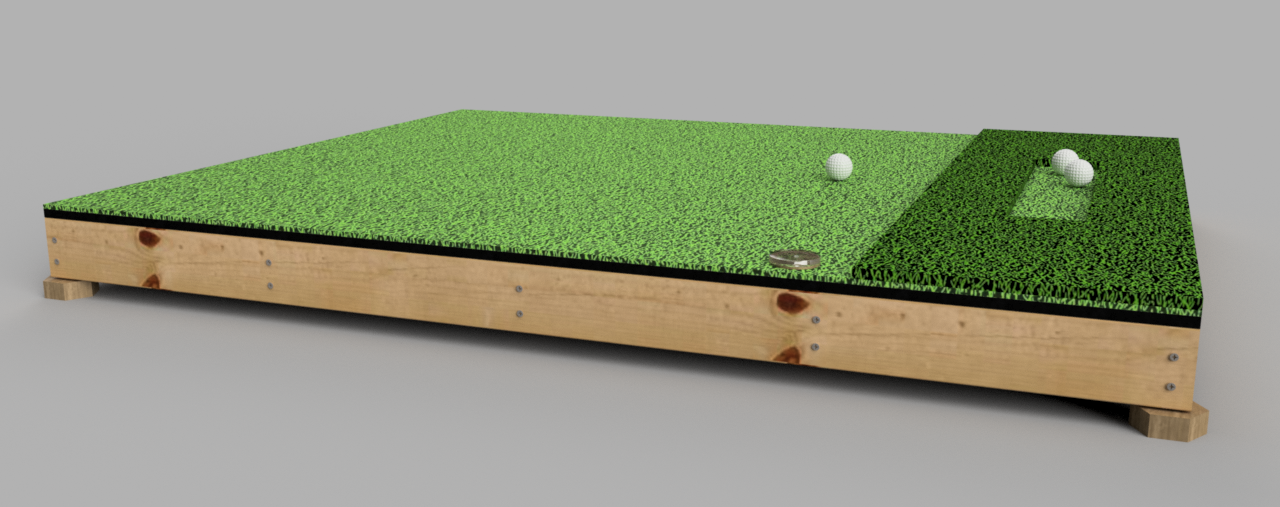
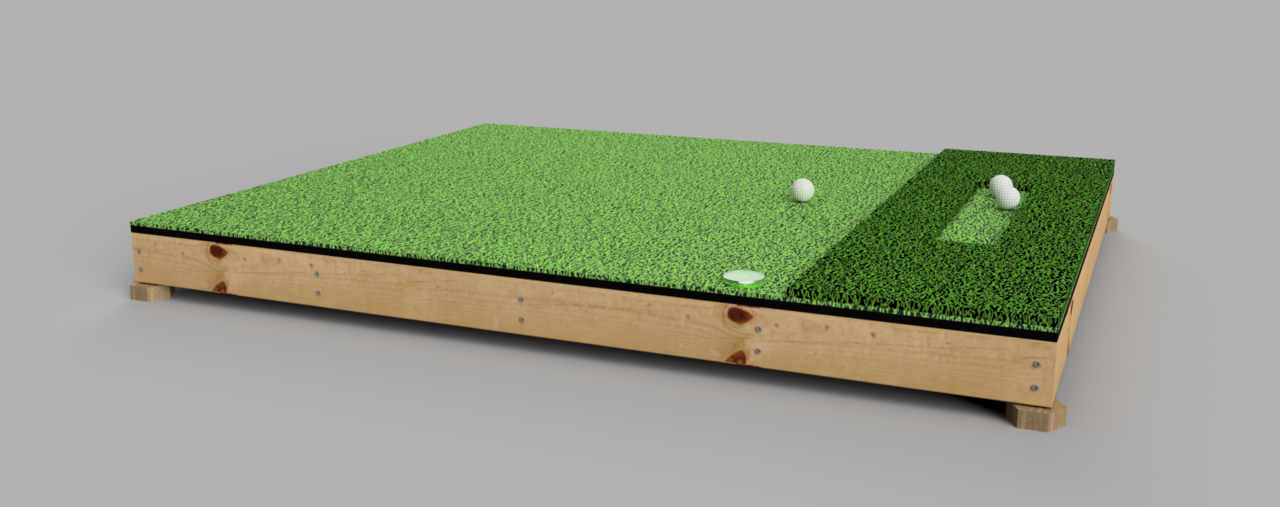
updating bom

Changed region(s): [[0.0312, 0.2071, 0.9688, 0.8876]]

diff --git a/golf-chipping-platform-bom.md b/golf-chipping-platform-bom.md
@@ -1,13 +1,15 @@
 # Golf Chipping Platform BOM
-![](images/golf-chipping-platform-render.png)
+![](images/golf-chipping-platform.png)
 |Image|Name|Number|Description|Quantity|Dimensions|
 |-|-|-|-|-|-|
 |![](images/.25-in-hex-nut.png)|.25 in Hex Nut v3:1|.25 in Hex Nut|Affiliate Link: https://amzn.to/4hm1ajV|4||
 |![](images/.25-in-tee-nut.png)|.25 in Tee Nut v3:1|.25 in Tee Nut|Affiliate Link: https://amzn.to/4bI0S5J|4||
 |![](images/.25x2-in-hex-bolt.png)|.25x2 in Hex Bolt v3:1|.25x2 in Hex Bolt|Affiliate Link: https://amzn.to/4hm1ajV|4||
 |![](images/bubble-level.png)|Bubble Level v4:1|Bubble Level|Affiliate Link: https://amzn.to/43Ag8j7|1||
-|![](images/footer-long.png)|Footer Long v3:1|Footer Long||2|60" x 3 1/2" x 1 1/2"|
-|![](images/footer-short.png)|Footer Short v3:1|Footer Short||5|45" x 3 1/2" x 1 1/2"|
+|![](images/deck.png)|Deck v2:1|Deck||1|60" x 48" x 3/4"|
+|![](images/footer-long.png)|Footer Long v3:1|Footer Long||2|59 1/1" x 3 1/2" x 1 1/2"|
+|![](images/footer-short.png)|Footer Short v3:1|Footer Short||5|44 1/1" x 3 1/2" x 1 1/2"|
 |![](images/golf-matt-assembly.png)|Golf Matt Assembly v3:1|Golf Matt Assembly|Affiliate Link: https://amzn.to/3Dr7J77|1||
+|![](images/no-8-x-1.25in.png)|No 8 x 1.25in v3:1|No 8 x 1.25in|Affiliate Link: https://amzn.to/3DvXDlk|25||
 |![](images/platform-foot.png)|Platform Foot v1:1|Platform Foot||4||
 |![](images/wood-screw-2.5in.png)|Wood Screw 2.5in v2:1|Wood Screw 2.5in|Affiliate Link: https://amzn.to/41nn14P|20||

diff --git a/README.md b/README.md
@@ -11,8 +11,10 @@ The following BOM was automatically generated using [tallman5/fusion-scripts](ht
 |![](images/.25-in-tee-nut.png)|.25 in Tee Nut|Affiliate Link: https://amzn.to/4bI0S5J|4|
 |![](images/.25x2-in-hex-bolt.png)|.25x2 in Hex Bolt|Affiliate Link: https://amzn.to/4hm1ajV|4|
 |![](images/bubble-level.png)|Bubble Level|Affiliate Link: https://amzn.to/43Ag8j7|1|
+|![](images/deck.png)|Deck v2:1|Deck|60" x 48" x 3/4"|1|
 |![](images/footer-long.png)|Footer Long|60" x 3 1/2" x 1 1/2"|2|
 |![](images/footer-short.png)|Footer Short|45" x 3 1/2" x 1 1/2"|5|
 |![](images/golf-matt-assembly.png)|Golf Matt|Affiliate Link: https://amzn.to/3Dr7J77|1|
+|![](images/no-8-x-1.25in.png)|No 8 x 1.25in|Affiliate Link: https://amzn.to/3DvXDlk|25|
 |![](images/platform-foot.png)|Platform Foot||4|
 |![](images/wood-screw-2.5in.png)|Wood Screw 2.5in|Affiliate Link: https://amzn.to/41nn14P|20|
